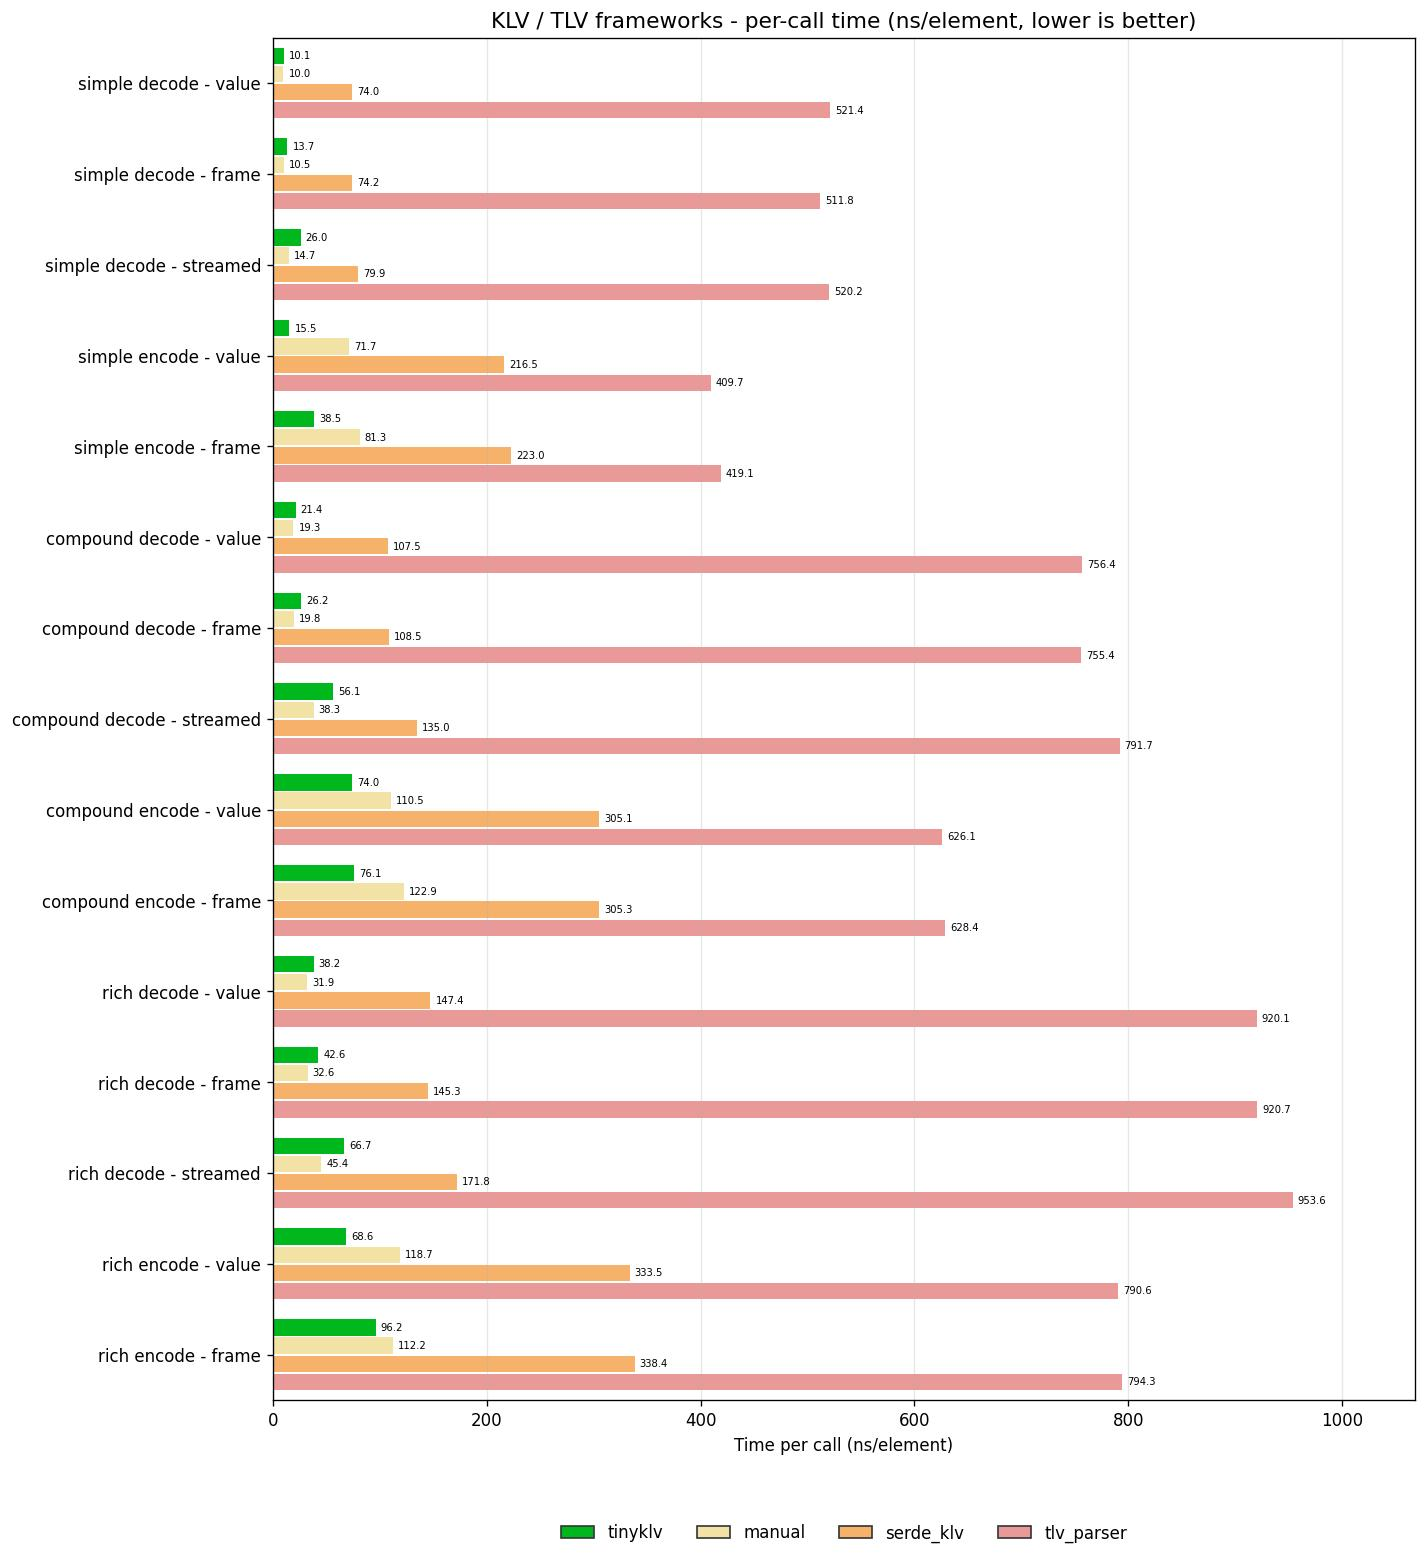
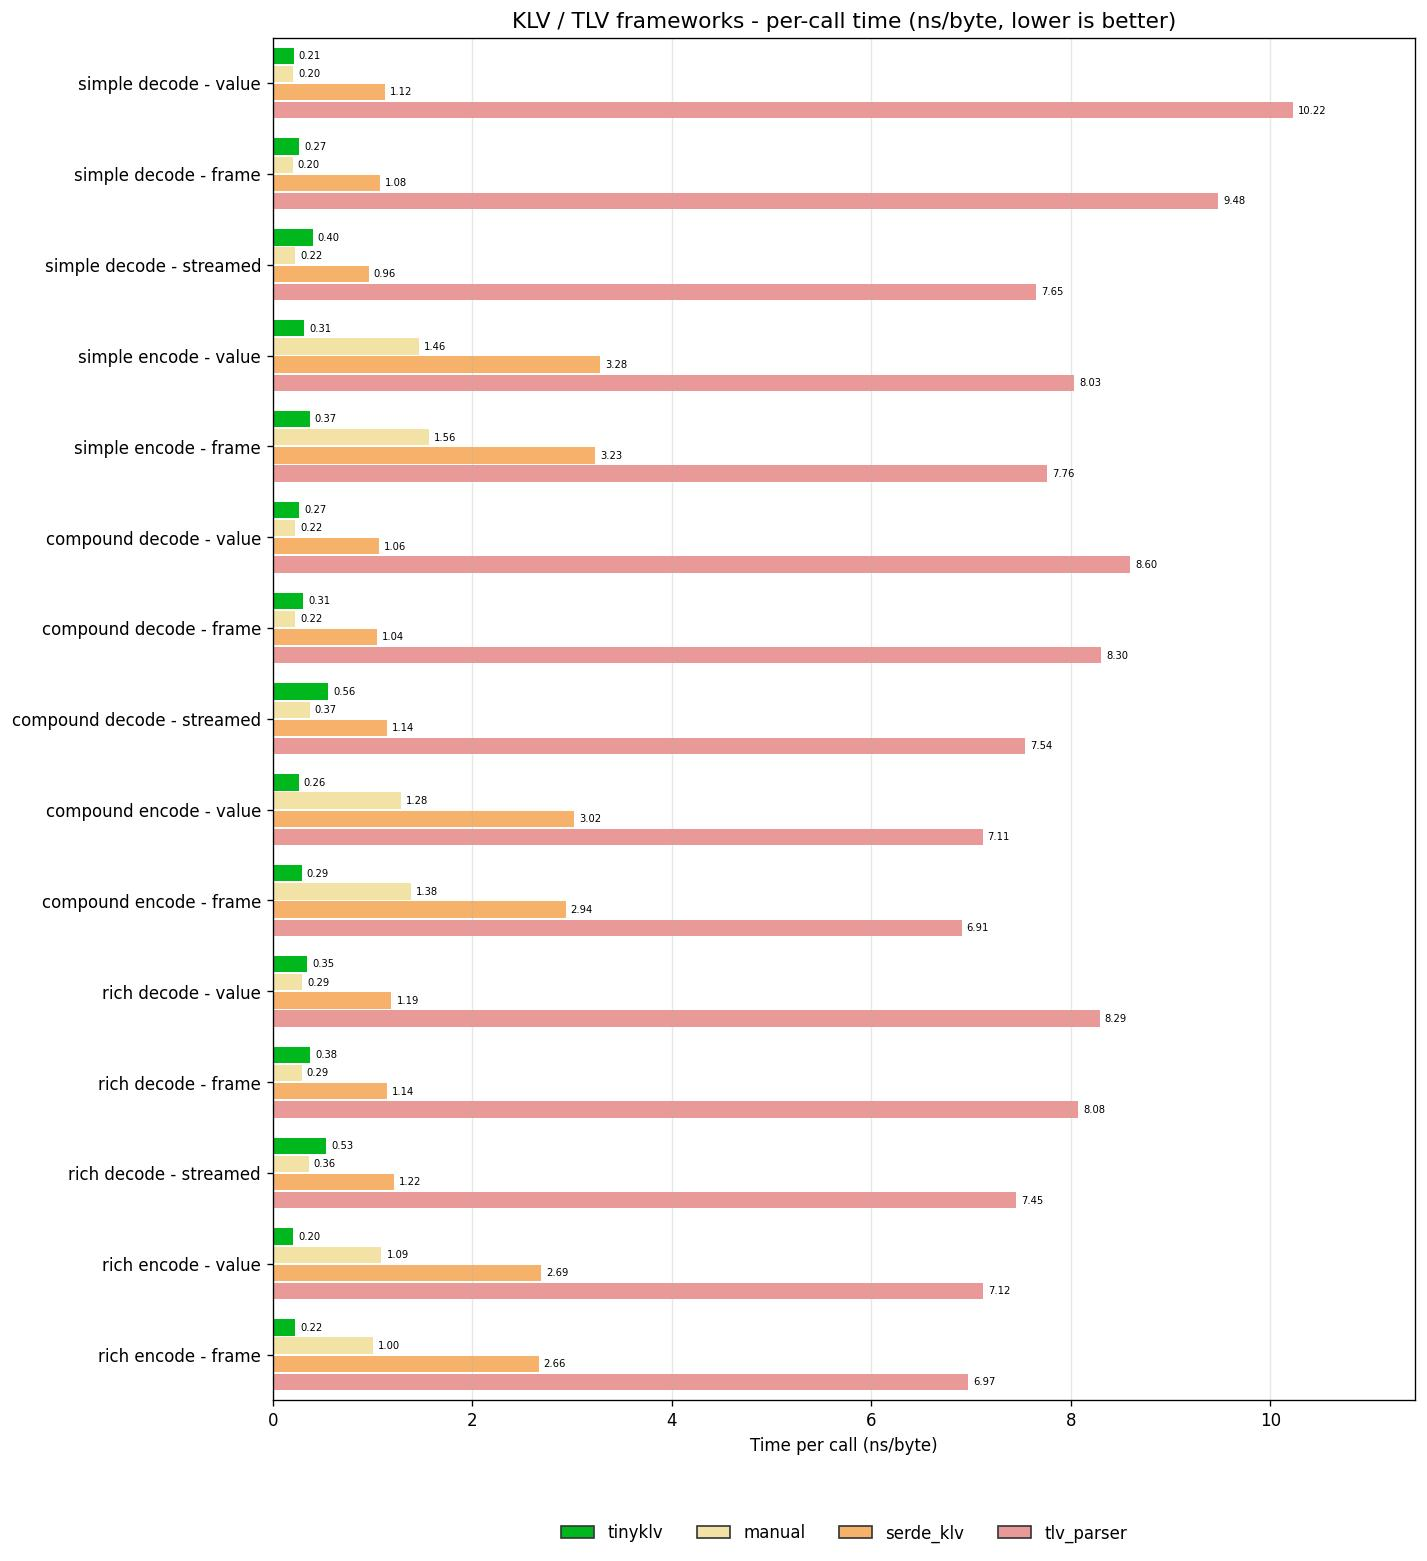
benches: update record suite, refreshed plots

diff --git a/benches/suite/records/rich.rs b/benches/suite/records/rich.rs
@@ -32,7 +32,7 @@ use std::{
     stream = &[u8],
     sentinel = b"\x47\x48",
     key(dec = decb::u8, enc = encb::u8),
-    len(dec = decb::u8_as_usize, enc = encb::u8_from_usize),
+    len(dec = decb::u8_as_usize, enc = encb::u8_from_usize, size(exact = 1)),
     default(typ = u32, dec = decb::be_u32, enc = *encb::be_u32),
     trait_fallback,
 )]
@@ -40,37 +40,42 @@ pub(crate) struct Rich {
     #[klv(key = 0x01)]
     pub(crate) id: u32,
 
-    #[klv(key = 0x02)]
+    #[klv(key = 0x02, size(exact = 20))]
     pub(crate) coord: GpsCoord,
 
-    #[klv(key = 0x03)]
+    #[klv(key = 0x03, size(exact = 8))]
     pub(crate) timestamp: DateTime<Utc>,
 
-    #[klv(key = 0x04)]
+    #[klv(key = 0x04, size(exact = 8))]
     pub(crate) elapsed: Duration,
 
-    #[klv(key = 0x05)]
+    #[klv(key = 0x05, size(exact = 4))]
     pub(crate) addr: Ipv4Addr,
 
-    #[klv(key = 0x06)]
+    #[klv(key = 0x06, size(exact = 16))]
     pub(crate) addr6: Ipv6Addr,
 
-    #[klv(key = 0x07)]
+    #[klv(key = 0x07, size(exact = 4))]
     pub(crate) date: NaiveDate,
 
-    #[klv(key = 0x08)]
+    #[klv(key = 0x08, size(exact = 4))]
     pub(crate) time: NaiveTime,
 
-    #[klv(key = 0x09)]
+    #[klv(key = 0x09, size(exact = 4))]
     pub(crate) symbol: char,
 
-    #[klv(key = 0x0A)]
+    #[klv(key = 0x0A, size(exact = 4))]
     pub(crate) seq: NonZeroU32,
 
-    #[klv(key = 0x0B)]
+    #[klv(key = 0x0B, size(exact = 1))]
     pub(crate) flag: bool,
 
-    #[klv(key = 0x0C, varlen = true, dec = decs::to_string_utf8, enc = &encs::from_string_utf8)]
+    #[klv(
+        key = 0x0C,
+        dec = decs::to_string_utf8,
+        enc = &encs::from_string_utf8,
+        size(var, hint = 16),
+    )]
     pub(crate) label: String,
 }
 

diff --git a/benches/suite/records/shared.rs b/benches/suite/records/shared.rs
@@ -100,6 +100,21 @@ impl tinyklv::DecodeValue<&[u8]> for Reading {
     }
 }
 
+/// [`Reading`] implementation of [`tinyklv::EncodeValue`] for `[u8]`
+///
+/// Encode twin of the hand-written [`DecodeValue`](tinyklv::DecodeValue) above: writes the fixed
+/// 5-byte `kind` (1) + big-endian `f32` value (4). Self-delimiting (fixed width), so a
+/// `Vec<Reading>` round-trips through the blanket `EncodeValue`/`DecodeValue for Vec<T>` with no
+/// custom encoder. Byte-for-byte identical to one element of [`Reading::pack`] (which is retained
+/// for the serde_klv / tlv_parser / manual approaches that need an owned-`Vec` return)
+impl tinyklv::EncodeValue for Reading {
+    #[inline]
+    fn encode_value(&self, out: &mut Vec<u8>) {
+        out.push(self.kind);
+        out.extend_from_slice(&self.value.to_be_bytes());
+    }
+}
+
 /// Nested GPS coordinate sub-packet: latitude and longitude as big-endian `f64` values
 ///
 /// Used by both [`super::Compound`] (via nested KLV key `0x02`) and [`super::Rich`] (same
@@ -108,9 +123,9 @@ impl tinyklv::DecodeValue<&[u8]> for Reading {
 #[derive(tinyklv::Klv, Debug, PartialEq, Clone, Copy)]
 #[klv(
     stream = &[u8],
-    key(dec = decb::u8, enc = encb::u8),
-    len(dec = decb::u8_as_usize, enc = encb::u8_from_usize),
-    default(typ = f64, dec = decb::be_f64, enc = *encb::be_f64),
+    key(dec = decb::u8, enc = encb::u8, size(exact = 1)),
+    len(dec = decb::u8_as_usize, enc = encb::u8_from_usize, size(exact = 1)),
+    default(typ = f64, dec = decb::be_f64, enc = *encb::be_f64, size(exact = 8)),
 )]
 pub(crate) struct GpsCoord {
     #[klv(key = 0x01)]

diff --git a/benches/suite/records/compound.rs b/benches/suite/records/compound.rs
@@ -20,7 +20,7 @@ use rand::{RngExt, rngs::SmallRng};
     stream = &[u8],
     sentinel = b"\x47\x48",
     key(dec = decb::u8, enc = encb::u8),
-    len(dec = decb::u8_as_usize, enc = encb::u8_from_usize),
+    len(dec = decb::u8_as_usize, enc = encb::u8_from_usize, size(exact = 1)),
     default(typ = u8, dec = decb::u8, enc = *encb::u8),
     default(typ = u32, dec = decb::be_u32, enc = *encb::be_u32),
     default(typ = i16, dec = decb::be_i16, enc = *encb::be_i16),
@@ -32,7 +32,7 @@ pub(crate) struct Compound {
     #[klv(key = 0x01)]
     pub(crate) id: u32,
 
-    #[klv(key = 0x02)]
+    #[klv(key = 0x02, size(exact = 20))]
     pub(crate) coord: GpsCoord,
 
     #[klv(key = 0x03)]
@@ -53,14 +53,8 @@ pub(crate) struct Compound {
     #[klv(key = 0x08)]
     pub(crate) mode: u8,
 
-    #[klv(key = 0x09, enc = pack_readings)]
+    #[klv(key = 0x09, size(hint = 40))]
     pub(crate) sensors: Vec<Reading>,
-}
-
-/// Writer-API adapter around [`Reading::pack`]: packs `readings` into a byte run and
-/// appends it to `out`, matching the new encoder signature `fn(&[Reading], &mut Vec<u8>)`.
-fn pack_readings(readings: &[Reading], out: &mut Vec<u8>) {
-    out.extend_from_slice(&Reading::pack(readings));
 }
 
 /// [`Compound`] implementation of [`RngSample`]

diff --git a/benches/suite/records/simple.rs b/benches/suite/records/simple.rs
@@ -19,7 +19,7 @@ use serde::{Deserialize, Serialize};
     stream = &[u8],
     sentinel = b"\x47\x48",
     key(dec = decb::u8, enc = encb::u8),
-    len(dec = decb::u8_as_usize, enc = encb::u8_from_usize),
+    len(dec = decb::u8_as_usize, enc = encb::u8_from_usize, size(exact = 1)),
     default(typ = u8, dec = decb::u8, enc = *encb::u8),
     default(typ = i16, dec = decb::be_i16, enc = *encb::be_i16),
     default(typ = i32, dec = decb::be_i32, enc = *encb::be_i32),

diff --git a/benches/streaming_compaction.rs b/benches/streaming_compaction.rs
@@ -46,7 +46,7 @@ const CHUNK_LEN: usize = 4;
     stream = &[u8],
     sentinel = b"SMPL",
     key(dec = decb::u8, enc = encb::u8),
-    len(dec = decb::u8_as_usize, enc = encb::u8_from_usize),
+    len(dec = decb::u8_as_usize, enc = encb::u8_from_usize, size(exact = 1)),
 )]
 struct Sample {
     #[klv(key = 0x01, dec = decb::u8, enc = *encb::u8)]
